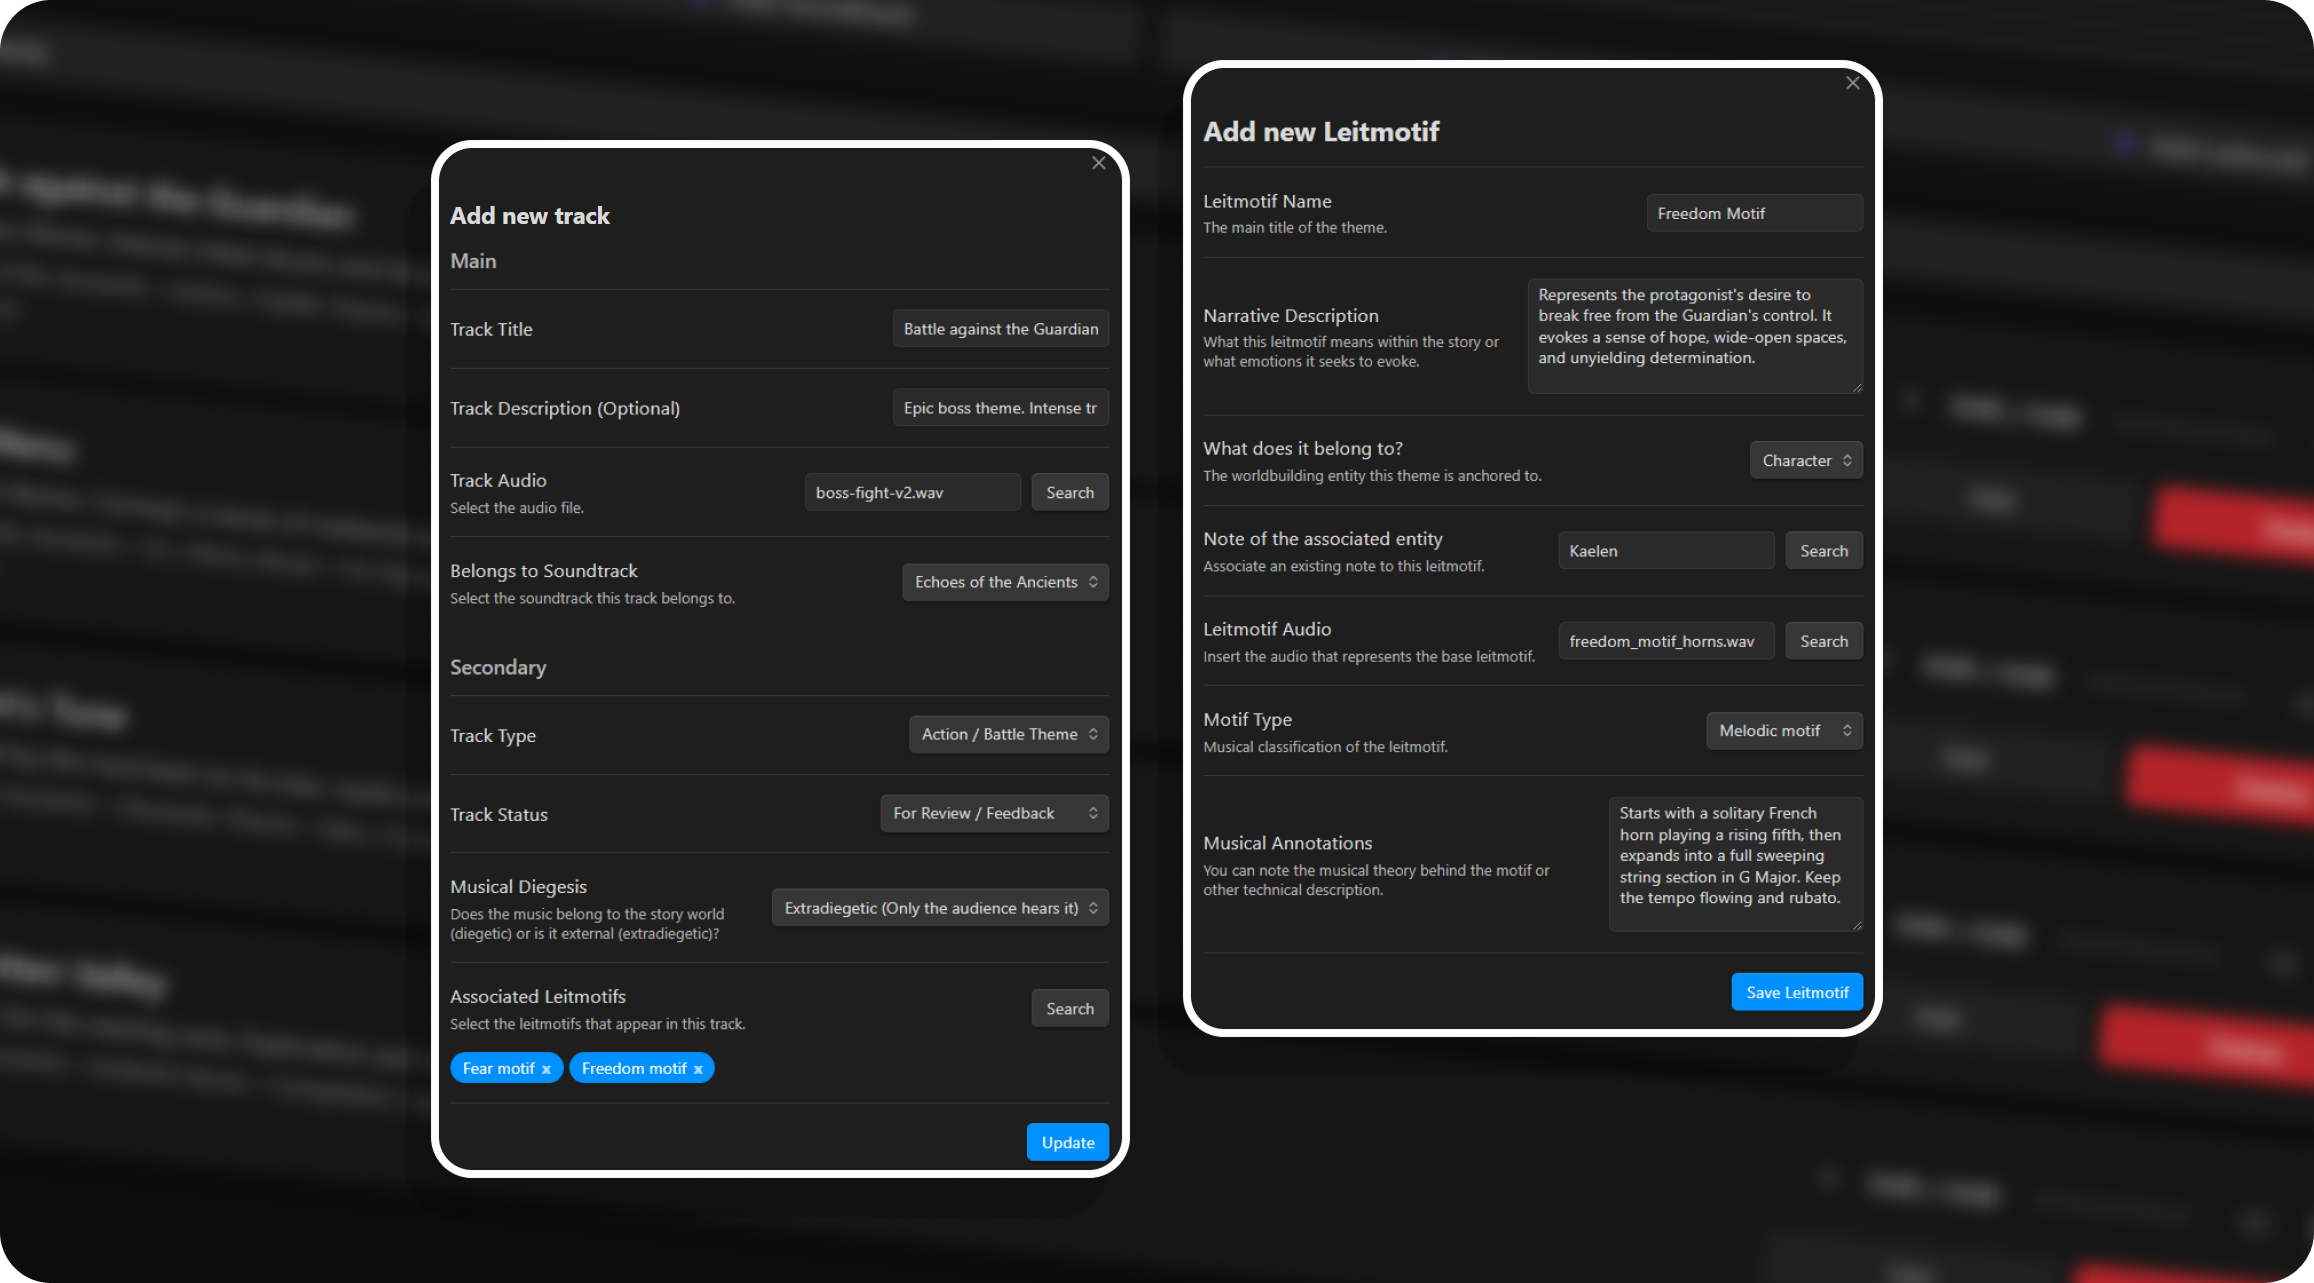
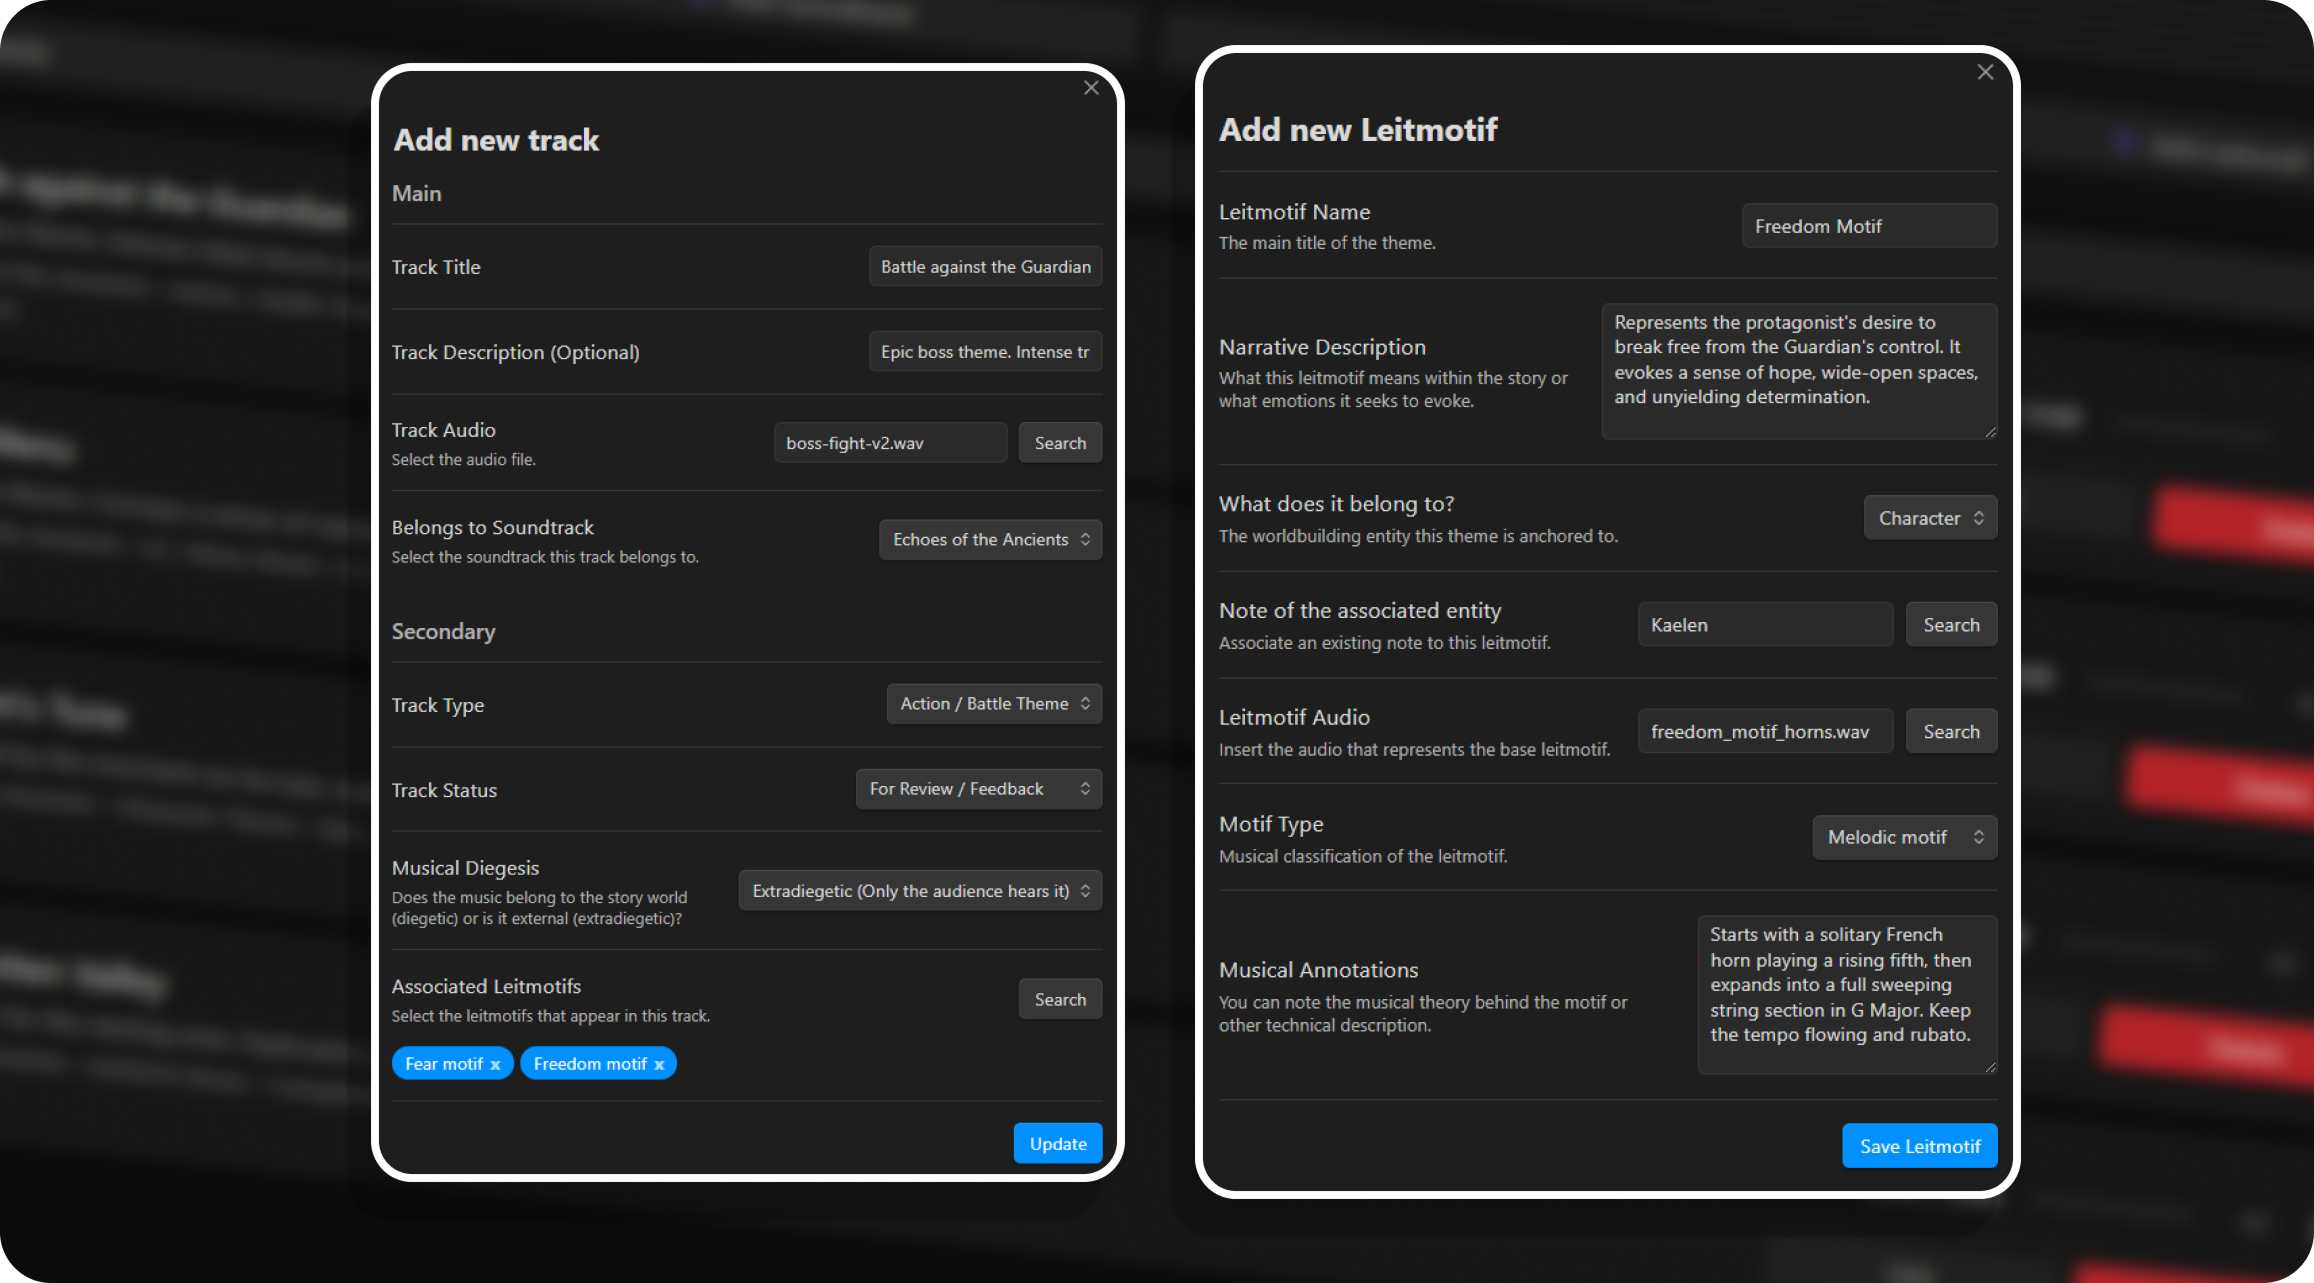
README finished

Changed region(s): [[0.1556, 0.0312, 0.8712, 0.9353]]

diff --git a/src/design/styles.css b/src/design/styles.css
@@ -191,7 +191,6 @@
 .storyscore-help-icon { margin-right: 8px; color: var(--text-accent); }
 .storyscore-setting-name { display: flex; align-items: center; }
 
-/* Auto-added classes to fix lint errors */
 .storyscore-settings-spacer { height: 20px; }
 .storyscore-track-info-title { margin: 0; }
 .storyscore-track-link-icon { cursor: pointer; }

diff --git a/README.md b/README.md
@@ -1,73 +1,96 @@
 <div align="center">
-  <!-- Reemplaza 'banner.png' con la ruta real de tu imagen -->
+  <!-- Replace 'banner.png' with your actual image path -->
   <img src="assets/store/banner.png" alt="StoryScore Banner" width="100%">
 </div>
 
 # StoryScore
-**StoryScore** es un plugin para Obsidian diseñado para compositores, directores de audio, escritores y creadores que necesitan organizar y gestionar bandas sonoras, pistas y leitmotifs directamente en su bóveda, conectando el proceso narrativo con el musical.
+**StoryScore** is an Obsidian plugin designed for composers, audio directors, writers, and creators who need to organize and manage soundtracks, tracks, and leitmotifs directly in their vault, bridging the narrative process with the musical one.
 
-Un registro ordenado de ideas musicales, versiones de mezcla y motivos recurrentes (leitmotifs) suele requerir múltiples aplicaciones externas u hojas de cálculo desordenadas. **StoryScore** resuelve esto permitiéndote vincular archivos de audio, letras y notas directamente a tus proyectos en Obsidian. Mantén toda la información conceptual y técnica en el mismo lugar donde escribes tu historia o documento de diseño.
+Keeping an organized log of musical ideas, mix versions, and recurring motifs (leitmotifs) usually requires multiple external apps or messy spreadsheets. **StoryScore** solves this by letting you link audio files, lyrics, and notes directly to your Obsidian projects. Keep all conceptual and technical information in the same place where you write your story or design document.
 
 <img src="assets/store/example.png" alt="StoryScore Banner" width="100%">
 
-## Características de la versión actual
+## Current Version Features
 
-- **Gestor Principal (Manager):** Una vista unificada para ver, reproducir y filtrar todas tus bandas sonoras y pistas.
-- **Tarjetas de Pistas (Track Cards):** Reproductor integrado de audio con visualización rápida de metadatos.
-- **Creación de Bandas Sonoras:** Define álbumes o proyectos musicales generales.
-- **Gestión de Pistas:** Añade pistas con atributos personalizables como estado, tipo, letras y selección de archivos de audio locales.
-- **Sistema de Leitmotifs:** Registra y conecta motivos musicales con personajes, objetos o lugares, detallando anotaciones musicales.
-- **Bloques de código interactivos:** Incrusta tarjetas de pistas directamente en cualquier nota usando un bloque de código `storyscore`. ¡Ideal para fichas de personajes o escenas!
+- **Main Manager:** A unified view to see, play, and filter all your soundtracks and tracks.
+- **Track Cards:** Integrated audio player with a quick display of metadata.
+- **Soundtrack Creation:** Define albums or general musical projects.
+- **Track Management:** Add tracks with customizable attributes like status, type, lyrics, and selection of local audio files.
+- **Leitmotif System:** Log and connect musical motifs to characters, objects, or places, detailing musical annotations.
+- **Interactive Codeblocks:** Embed track cards directly into any note using a `storyscore` codeblock. Perfect for character sheets or scene notes!
 
-
-### Manager (Gestor Principal)
-Vista centralizada accesible desde la barra lateral (Ribbon). Filtra tus pistas por banda sonora, escucha el progreso y administra todo de un vistazo.
+### Manager
+A centralized view accessible from the Ribbon. Filter your tracks by soundtrack, listen to progress, and manage everything at a glance.
 <div align="center">
-  <!-- Reemplaza con la ruta de tu captura -->
+  <!-- Replace with your screenshot path -->
   <img src="assets/store/manager.png" alt="StoryScore Manager" width="80%">
 </div>
 
-### Creación de Soundtracks y Tracks
-Crea pistas y leitmotifs de manera sencilla, asignando estados, tipos y vinculando archivos de audio de tu bóveda sin tener que tocar código.
+### Creation 
+Easily create tracks and leitmotifs, assign statuses and types, and link audio files from your vault without having to write any code.
 <div align="center">
-  <!-- Reemplaza con la ruta de tu captura -->
-  <img src="assets/store/add-track.png" alt="Formulario de Pista" width="80%">
+  <!-- Replace with your screenshot path -->
+  <img src="assets/store/add-track.png" alt="Track Form" width="80%">
 </div>
 
-### Tarjetas Integradas (Codeblocks)
+### Embedded Cards (Codeblocks)
 
-Inserta pistas directamente en el flujo de tu texto. Simplemente escribe `/storyscore` o usa el comando para generar la tarjeta jugable.
+Insert tracks directly into the flow of your text. Open the **Command Palette** while on the desired note and use the *Insert track player here* command. If you prefer to do it manually, create a codeblock like this:
+
+````markdown
+```storyscore
+id: SS-rnf8e # (Example track ID)
+```
+````
+
+This will give your notes a much more immersive musical and narrative dimension, allowing you to play the exact music for a scene, character, or event without leaving the text.
 <div align="center">
   <img src="assets/store/track-card.png" alt="Track Card" width="80%">
 </div>
 
-## Estructura de carpetas
+## Folder Structure
 
-En los ajustes del plugin puedes elegir tu **Carpeta Base** (por defecto `StoryScore`). Para mantener el orden y asegurar el buen funcionamiento del plugin, StoryScore gestiona internamente la siguiente estructura:
+In the plugin settings, you can choose your **Base Folder** (default is `StoryScore`). To maintain order and ensure proper plugin functionality, StoryScore internally manages the following structure:
 
 ```text
-📁 Tu Carpeta Base (StoryScore)
- ├── 📁 soundtracks  (Notas de bandas sonoras)
- ├── 📁 tracks       (Notas de pistas individuales)
- └── 📁 leitmotifs   (Notas de motivos musicales)
+📁 Your Base Folder (StoryScore)
+ ├── 📁 soundtracks  (Soundtrack notes)
+ ├── 📁 tracks       (Individual track notes)
+ └── 📁 leitmotifs   (Musical motif notes)
 ```
-## ¿Qué viene después?
+## What's Next?
 
-El desarrollo de StoryScore apenas comienza. En futuras actualizaciones se planea construir interfaces completas de documentación y vistas interactivas para conectar de forma mucho más visual las pistas, motivos y escenas, permitiendo mapear toda la música con la narrativa de un vistazo. A su vez, se desarrollarán herramientas de trabajo cooperativo con funcionalidades diseñadas específicamente para facilitar la colaboración entre equipos de escritores, diseñadores narrativos y compositores, haciendo que sincronizar la bóveda musical sea un proceso natural y aún más intuitivo.
+StoryScore's development has just begun. Future updates plan to build comprehensive documentation interfaces and interactive views to connect tracks, motifs, and scenes much more visually, allowing you to map out all the music with the narrative at a glance. Additionally, cooperative workflow tools will be developed with features specifically designed to facilitate collaboration between teams of writers, narrative designers, and composers, making the synchronization of your musical vault a natural and even more intuitive process.
 
-## Traducciones
-StoryScore cuenta con traducciones completas para:
-- 🇪🇸 **Español** 
-- 🇬🇧 **Inglés** 
+## Translations
 
-## Apóyame
-Si este plugin te resulta útil para tus proyectos y quieres apoyar su desarrollo, ¡considera invitarme a un café!
+Currently, StoryScore supports the following languages:
+- 🇬🇧 **English**
+- 🇪🇸 **Spanish**
+
+Since music is a universal language, any help to bring StoryScore to more languages is highly appreciated!
+
+If you want to contribute a translation:
+1. **Fork** this repository.
+2. Create a new language file inside the `src/locales/` folder (you can use `en.ts` as a template).
+3. Submit a **Pull Request (PR)** with your translated file.
+
+Your translation will be included in the next release, and you will be fully credited for your contribution!
+
+## Support Me
+If you find this plugin useful for your projects and want to support its development, consider buying me a coffee!
 
 <div align="center">
-  <a href="https://ko-fi.com/pernax">
-    <!-- Reemplaza con una captura bonita de tu Ko-fi -->
-    <img src="assets/store/kofi-preview.png" alt="Invítame a un café" width="250px">
+  <a href="https://ko-fi.com/pernax" target="_blank">
+    <img src="https://img.shields.io/badge/Support_Me_on_Ko--fi-FF5E5B?style=social&logo=ko-fi" alt="Support me on Ko-fi">
   </a>
-  <br><br>
-  <a href="https://ko-fi.com/pernax"><strong>Apóyame en Ko-fi</strong></a>
+  &nbsp;&nbsp;&nbsp;
+  <a href="https://github.com/SrPernax" target="_blank">
+    <img src="https://img.shields.io/badge/Follow_Me_on_GitHub-181717?style=social&logo=github" alt="Follow me on GitHub">
+  </a>
+</div>
+
+<br>
+<div align="center">
+  Thanks for using <b>StoryScore</b> :]
 </div>